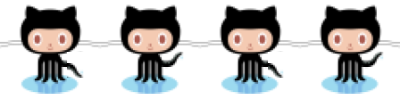
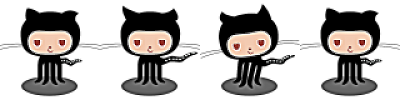
new animations

Changed region(s): [[0.0, 0.03, 1.0, 0.99]]

diff --git a/static/arena.js b/static/arena.js
@@ -1,26 +1,26 @@
 PLAYGROUND_WIDTH = 800;
 PLAYGROUND_HEIGHT = 450;
-FIGHTER_SIZE = 100;
 FRAME_COUNT = 4;
 POSITION_Y = 270;
 BAR_WIDTH = PLAYGROUND_WIDTH / 4;
 BAR_HEIGHT = 15;
 UNIT = 100;
-DEBUG_SERVER = "http://githunt.com";
-//DEBUG_SERVER = "http://127.0.0.1:6000";
+//DEBUG_SERVER = "http://githunt.com";
+DEBUG_SERVER = "http://127.0.0.1:6000";
 TIMES_PER_SECOND = 8;
 
 // fighters states
 IDLE =          0;
 WALK_FORWARD =  1;
 WALK_BACKWARD = 2;
-PUNCH =         3;
-KICK =          4;
+KICK =          3;
+PUNCH =         4;
 BLOCK =         5;
 BEATEN =        6;
+//"idle", "walk_forward", "walk_backward", "kick", "punch", "block", "beaten"
 
-function get_image(fighter, action){
-    return "/static/" + fighter + "/" + action + "_" + FIGHTER_SIZE + "x" + FIGHTER_SIZE + "x" + FRAME_COUNT + ".png";
+function get_image(fighter, action) {
+    return "/static/" + fighter + "/" + action + "_" + UNIT + "x" + UNIT + "x" + FRAME_COUNT + ".png";
 }
 
 function get_hp_step(hp) {
@@ -31,9 +31,9 @@ function get_hp_scale(hp) {
     return hp / BAR_WIDTH;
 }
 
-function start_fight(){
+function start_fight() {
     
-    function animate_bar(fighter, move){
+    function animate_bar(fighter, move) {
         var tmp = BAR_WIDTH - ~~(move.hp / GF.fighters[fighter].hp_scale);
         var ctx = GF.fighters[fighter].bar_ctx();
         ctx.fillStyle = '#660000';
@@ -46,23 +46,43 @@ function start_fight(){
         }
     }
 
-    function debug_animate(fighter, move){
+    function debug_animate(fighter, move) {
         $('#debug_' + fighter).html(move.message);
     }
 
-    function animate(sprite){
-        sprite = $(sprite);
-        group_sprite = $(sprite).parent();
-        fighter = group_sprite.data("fighter");
-        name = fighter.name;
-        move_number = fighter.move;
-        fighter_data = GF.fighters[name];
-        move = fighter_data.log[move_number];
+    function change_sprite_animation(sprite, animations, state) {
+        console.log(arguments);
+        var sprite = $(sprite);
+        sprite
+            .setAnimation(animations[state].animation)
+            .width(animations[state].width)
+            .height(animations[state].height)
+            .y(sprite.position().top)
+            .x(sprite.position().left)
+    }
 
-        if(typeof move == 'undefined' || (fighter_data.hp_previous <= 0 && move.hp <= 0)) {
-                $('#playground').fadeOut(6000, function(){
+    function change_group_animation (group_sprite, fighter) {
+        var fighter_state = fighter.current_state;
+        console.log(fighter_state, PUNCH, group_sprite.children()[0], group_sprite.children()[1]);
+        change_sprite_animation(group_sprite.children()[1], fighter.body_animations, fighter_state);
+        if( fighter_state >= PUNCH ) {
+            change_sprite_animation(group_sprite.children()[0], fighter.effects_animations, fighter_state - PUNCH);
+        }
+    }
+
+    function animate(sprite) {
+        var sprite = $(sprite);
+        var group_sprite = $(sprite).parent();
+        var name = $(group_sprite).attr('id');
+        var fighter = GF.fighters[name];
+        var move_number = fighter.move;
+        var move = fighter.log[move_number];
+
+        if(typeof move == 'undefined' || (fighter.hp_previous <= 0 && move.hp <= 0)) {
+                $('#playground').fadeOut(6000, function() {
+                    fighter.current_state = IDLE;
                     $(this).remove();
-                    $('#fight_over').append('<p>And the winner is</p><p>' + fighter_data.full_name + '!</p>');
+                    $('#fight_over').append('<p>And the winner is</p><p>' + fighter.full_name + '!</p>');
                     $.playground().pauseGame();
                 });
                 return;
@@ -70,28 +90,28 @@ function start_fight(){
         var nextState = move.state;
         // Shouldn't change WALK_* state until reached position
         if( (fighter.current_state == WALK_BACKWARD || fighter.current_state == WALK_FORWARD)
-                && group_sprite.x() != fighter_data.position) {
+                && group_sprite.x() != fighter.position) {
                     return;
         }
 
-        if(fighter_data.hp_previous != move.hp) animate_bar(name, move);
-        debug_animate(name, move);
-        fighter_data.hp_previous = move.hp;
+        if(fighter.hp_previous != move.hp) animate_bar(name, move);
+        fighter.hp_previous = move.hp;
         fighter.move ++;
 
-        changeAnimation(sprite, fighter.animations, nextState, fighter.current_state);
-
-        if(nextState == PUNCH || nextState == KICK){
+        if(nextState == PUNCH || nextState == KICK) {
             group_sprite.z(20);
-        } else if(fighter.current_state == PUNCH || fighter.current_state == KICK){
+        } else if(fighter.current_state == PUNCH || fighter.current_state == KICK) {
             group_sprite.z(0);
         }
 
         fighter.current_state = nextState;
         fighter.position = move.position * UNIT;
+        change_group_animation(group_sprite, fighter);
+        debug_animate(name, move);
     }
 
-    function create_fighter(fighter){
+
+    function create_fighter(fighter) {
         $.extend(GF.fighters[fighter], {
             current_state: IDLE,
             position: UNIT,
@@ -101,41 +121,56 @@ function start_fight(){
             hp_scale: get_hp_scale(GF.fighters[fighter].size),
             hp_previous: GF.fighters[fighter].size,
             delta: false,
-            animations: $.map([ "idle", "walk_forward", "walk_backward", "punch", "kick", "block", "hit"],
+            body_animations: $.map([ "idle", "walk_forward", "walk_backward", "kick", "punch", "block", "beaten"],
                 function(image_name) {
                     return {animation: new $.gQ.Animation({imageURL: get_image(fighter, image_name),
                                         numberOfFrame: FRAME_COUNT,
-                                        delta: FIGHTER_SIZE, rate: 240,
+                                        delta: UNIT,
+                                        rate: 360,
                                         type: $.gQ.ANIMATION_HORIZONTAL | $.gQ.ANIMATION_CALLBACK}),
-                            deltaX: 0, deltaY: 0, 
-                        width: FIGHTER_SIZE, height: FIGHTER_SIZE};})
+                            deltaX: 0,
+                            deltaY: 0, 
+                            width: UNIT,
+                            height: UNIT
+                    };
+                }),
+            effects_animations: $.map([ "fx_punch", "fx_block", "fx_beaten"],
+                function(fx_name) {
+                    return {animation: new $.gQ.Animation({imageURL: get_image(fighter, fx_name),
+                                        numberOfFrame: FRAME_COUNT,
+                                        delta: UNIT,
+                                        rate: 120,
+                                        type: $.gQ.ANIMATION_HORIZONTAL | $.gQ.ANIMATION_CALLBACK | $.gQ.ANIMATION_ONCE}),
+                            //deltaX: 0,
+                            //deltaY: 0, 
+                            width: UNIT,
+                            height: UNIT
+                    };
+                })
         });
 
         $("#fighters").addGroup(fighter,
                             {posy: POSITION_Y,
-                             posx: GF.fighters[fighter].log[0].position * UNIT,
+                             posx: GF.fighters[fighter].log[0].position * UNIT
                              })
+                    .addSprite('fx_' + fighter,
+                            {animation: GF.fighters[fighter].effects_animations[0].animation,
+                             width: UNIT,
+                             height: UNIT,
+                             posx: (fighter == 'fighter_0') ? UNIT / 4 : - UNIT / 4,
+                             callback: function(sprite) { $(sprite).setAnimation(); }
+                            })
                     .addSprite('body_' + fighter,
-                            {animation: GF.fighters[fighter].animations[0].animation,
-                             height: FIGHTER_SIZE,
-                             width: FIGHTER_SIZE,
-                             callback: animate})
+                            {animation: GF.fighters[fighter].body_animations[0].animation,
+                             width: UNIT,
+                             height: UNIT,
+                             callback: animate
+                            })
                     .addSprite('hat_' + fighter,
                             {posx: UNIT / 3,
                              posy: - 10, 
                              });
-        $("#" + fighter).data("fighter", GF.fighters[fighter]);
     }
-
-    //replace with new
-    var changeAnimation = function(sprite, animations, newAnimation , oldAnimation){
-        sprite
-            .setAnimation(animations[newAnimation].animation)
-            .width(animations[newAnimation].width)
-            .height(animations[newAnimation].height)
-            .y(sprite.position().top)
-            .x(sprite.position().left)
-    };
 
     // the game
     $("#playground").playground({height: PLAYGROUND_HEIGHT, width: PLAYGROUND_WIDTH, refreshRate: 25, keyTracker: true});
@@ -154,21 +189,22 @@ function start_fight(){
             {   width: BAR_WIDTH * 2, height: BAR_HEIGHT,
                 posx: 2 * BAR_WIDTH, posy: PLAYGROUND_HEIGHT - BAR_HEIGHT })
 
-    function show_fight(){
+    function show_fight() {
         //Fighters
-        for( fighter in GF.fighters ){
+        for( fighter in GF.fighters ) {
             create_fighter(fighter);
         }
 
         //register the main callback
-        $.playground().registerCallback(function(){
+        $.playground().registerCallback(function() {
 
             function move_fighter(fighter) {
                 var fighter = $(fighter);
-                var fighterF = fighter.data('fighter');
+                var name = fighter.attr('id');
+                var fighterF = GF.fighters[name];
 
                 //Move
-                if(fighterF.current_state == WALK_FORWARD || fighterF.current_state == WALK_BACKWARD){
+                if(fighterF.current_state == WALK_FORWARD || fighterF.current_state == WALK_BACKWARD) {
                     if( fighterF.delta == false ) {
                         fighterF.delta = (fighterF.position - fighter.x()) / TIMES_PER_SECOND;
                         if( Math.abs(fighterF.delta) > UNIT ) { 
@@ -192,16 +228,17 @@ function start_fight(){
             if( GF.fighters['fighter_0'].delta || GF.fighters['fighter_1'].delta ) {
                 var log = $.map(['fighter_0', 'fighter_1'], function (el) {
                             var fighter = $('#' + el);
-                            var fighterF = fighter.data('fighter');
+                            var name = fighter.attr('id');
+                            var fighterF = GF.fighters[name];
                             return [el, fighterF.delta, fighterF.position, fighter.x()];
                 });
                 console.log(log);
             }
 
             var fighter_0 = $('#fighter_0');
-            var fighter_0F = fighter_0.data('fighter');
+            var fighter_0F = GF.fighters['fighter_0'];
             var fighter_1 = $('#fighter_1');
-            var fighter_1F = fighter_1.data('fighter');
+            var fighter_1F = GF.fighters['fighter_1'];
 
             if(fighter_0F.position == fighter_1F.position) {
                 console.log("Duh!", fighter_0F.position, fighter_1F.position); // TODO
@@ -219,7 +256,7 @@ function start_fight(){
                 position: "absolute",
             });
             var canvas = document.getElementById("canvas_" + fighter);
-            if (canvas.getContext){
+            if (canvas.getContext) {
                 var ctx = canvas.getContext('2d');
                 ctx.fillStyle = "white";
                 ctx.fillRect(0, 0, BAR_WIDTH + 2, BAR_HEIGHT + 2);
@@ -244,8 +281,8 @@ function start_fight(){
         draw_bar("fighter_1", PLAYGROUND_WIDTH / 2 + BAR_HEIGHT);
     }
     
-    $.playground().startGame(function(){
-		$("#loading_screen").fadeOut(3000, function(){$(this).remove()});
+    $.playground().startGame(function() {
+		$("#loading_screen").fadeOut(3000, function() {$(this).remove()});
     });
 
     //ready to show fight

diff --git a/fighter.py b/fighter.py
@@ -40,8 +40,8 @@ class Fighter(object):
         self.act = {0: self.idle,
                 1: self.walk_forward,
                 2: self.walk_backward,
-                3: self.punch,
-                4: self.kick,
+                3: self.kick,
+                4: self.punch,
                 5: self.block,
                 6: self.beaten,
                 }
